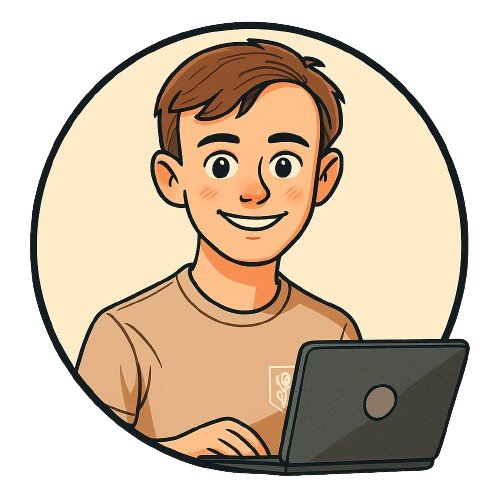
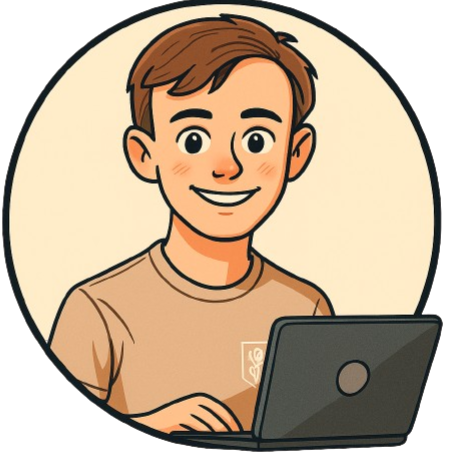
Made a flip-image

diff --git a/src/components/FlipImage.jsx b/src/components/FlipImage.jsx
@@ -1,0 +1,29 @@
+import { useState } from "react"
+
+export const FlipImage = ({src1, src2, className}) => {
+
+    const [isFlipped, setFlipped] = useState(false);
+
+
+
+    return (
+        <div className="w-50 md:w-60 h-50 md:h-60 mb-10 relative">
+            <div className="hover:scale-105 drop-shadow-xl drop-shadow-blue-500/30 hover:drop-shadow-blue-500/70">
+                <img 
+                    src={src1} 
+                    alt="Logo" 
+                    className={`hover:cursor-pointer backface-hidden transition-all duration-1500 absolute bg-clip-content rounded-t-full rounded-bl-full rounded-br-4xl
+                                ${isFlipped ? "rotate-y-180" : "rotate-y-0"}`}
+                    onClick={() => setFlipped(true)}
+                />
+                <img 
+                    src={src2} 
+                    alt="Logo" 
+                    className={`hover:cursor-pointer backface-hidden transition-all duration-1500 absolute border-4 border-gray-900 rounded-full
+                                ${isFlipped ? "rotate-y-0" : "rotate-y-180"}`}
+                    onClick={() => setFlipped(false)}
+                />
+            </div>
+        </div>
+    )
+}

diff --git a/src/components/sections/Home.jsx b/src/components/sections/Home.jsx
@@ -1,6 +1,8 @@
 import logo from '../../assets/Niek_Damink.png';
+import logo2 from '../../assets/Niek_Round.jpg';
 import { FaDownload } from 'react-icons/fa';
 import { RevealOnScroll } from '../RevealOnScroll';
+import { FlipImage } from '../FlipImage';
 
 export const Home = () => {
     return <section 
@@ -9,11 +11,7 @@ export const Home = () => {
             >
                 <RevealOnScroll>
                 <div className="text-center z-10 px-4 flex flex-col justify-center items-center">
-                    <img 
-                        src={logo} 
-                        alt="Logo" 
-                        className="w-60 md:w-70 h-60 md:h-70 mb-5  hover:scale-105 drop-shadow-xl drop-shadow-blue-500/30 hover:drop-shadow-blue-500/70 " 
-                    />
+                    <FlipImage src1={logo} src2={logo2}/>
                     <h1 className="text-5xl md:text-7xl font-bold mb-6 bg-gradient-to-r from-blue-500 to-purple-400 bg-clip-text text-transparent">
                         Hi, I'm Niek Damink
                     </h1>
